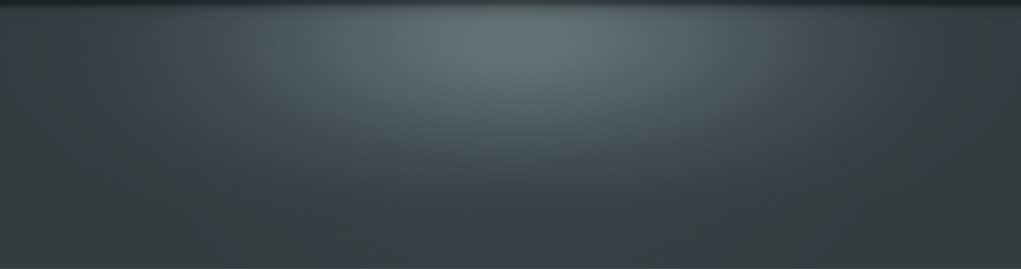
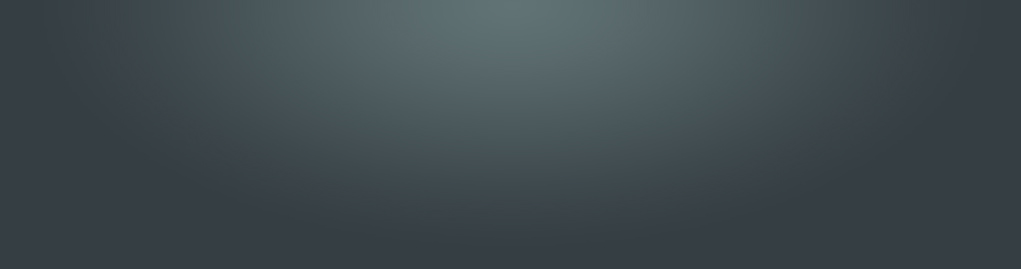
improved login screen

Changed region(s): [[0.0, 0.0, 1.0, 0.0297]]

diff --git a/css/themes/template.css b/css/themes/template.css
@@ -70,6 +70,20 @@ h3 {
 box-shadow: 3px 2px 13px #000000;
 	
 }
+.login_content {
+
+	padding:10px;
+       
+	margin-bottom:20px;
+	position:relative;
+        width:480px;
+	background:#ffffff;
+color: #aaaaaa;
+-moz-box-shadow: 3px 2px 13px #000000;
+-webkit-box-shadow: 3px 2px 13px #000000;
+box-shadow: 3px 2px 13px #000000;
+
+}
 #main_body {
 min-height:325px;
 
@@ -268,11 +282,14 @@ box-shadow: 3px 2px 13px #000000;
 }
 
 .footer2 {
-background:url('/images/backgrounds/footer_graphic.jpg') no-repeat center #353e43;
+background:url('/images/backgrounds/footer_graphic.jpg') no-repeat top center #353e43;
 
-	height:200px;
+	height:2000px;
 	color: #dddddd;
 	padding-top:0px;
+}
+.footer2 a {
+    color:#dddddd;
 }
 #partners_container {
 height:70px;
@@ -349,6 +366,24 @@ display: none;
 
 }
 .sidebox a {
+color:#ffffff;
+
+}
+
+.loginbox {
+
+    width:250px;
+    padding-top:5px;
+    padding-left:10px;
+    padding-right:10px;
+    margin-bottom:10px;
+   margin-top:10px;
+    color:#ffffff;
+    height: 120px;
+    background:url('/images/backgrounds/sidebox.jpg') repeat-x #4c585b;
+
+}
+.loginbox a {
 color:#ffffff;
 
 }

diff --git a/system/application/views/logintemplate.php b/system/application/views/logintemplate.php
@@ -11,7 +11,6 @@
 <?=$this->load->view('global/themes/header')?>
 
 
-
 <body>
 
 <!--[if lt IE 7]>
@@ -31,63 +30,78 @@
   </div>
 <![endif]-->
 
-         <div class="container_24">
-                    <?php $this->load->view('global/menutop'); ?>
+         <div class="container_24" align="center">
+                  	  	<div id="logo">
 
-            
+  		<?php if(SITE=="customer"){
+	?><a href="<?=base_url()?>" title="customer resource"><img src="<?=base_url()?>images/logocustomer.png"></img></a>
+<?php }
+else if(SITE=="channel"){
+	?><a href="<?=base_url()?>" title="channel resource"><img src="<?=base_url()?>images/logo.png"></img></a>
+<?php }
+
+?>
+
+
+
+
+
+                            </div>
+
+
 	</div>
 
-	<div class="menu_container">
-	    		<div class="container_24"><?=$this->load->view('global/themes/top_menu')?></div>
-	 </div>
+	
 
-<div class="main_content container_24">
+<div class="login_content container_24">
   	<!-- CONTENT -->
-  	
-       
-    
 
-         <div class="grid_19">
 
-	<?php
+
+
+
+         <div  align="center">
+             <?php
 	if(isset($title))
 	{
 		echo "<h1 class='componentheading'>$title</h1>";
 	}
 	?>
 
-	<?php $this->load->view('global/warning'); ?>
-	<?php $this->load->view($main); ?>
-
-
-            </div>
-
-         <div class="grid_5">
-
+	<?php $this->load->view('global/warning'); ?><br/>
+	
+Login with your username and password below:<br/>
            	<?php if(SITE=="customer"){
-                    $this->load->view('global/themes/custmenu');
+                    $this->load->view('global/themes/loginonly');
             }
             else if(SITE=="channel"){
-                    $this->load->view('global/themes/channelmenu');
+                    $this->load->view('global/themes/loginonly');
             }
 
 ?>
 
+
+<?php
+	if(isset($main))
+	{
+		$this->load->view($main);
+	}
+	?>
         </div>
 
         <div class="clear"></div>
 
 
-   
+
       <!-- //CONTENT -->
 </div>
-   <div class="footer2">
+   <div class="footer2" >
 	<div class="top_shadow"></div>
 	<div class="container_24">
 
 
 		<div class="grid_19">
-				<?php $this->load->view('global/themes/footer'); ?>
+				<?php $this->load->view('global/themes/loginfooter'); ?>
 		</div>
 
 		<div class="grid_5">
@@ -96,6 +110,7 @@
 
 	</div>
 </div>
+ 
 
 </body>
 </html>

diff --git a/system/application/views/global/themes/loginonly.php b/system/application/views/global/themes/loginonly.php
@@ -1,0 +1,42 @@
+<div class="loginbox">
+
+
+
+	     <?php
+
+$is_logged_in = $this->session->userdata('is_logged_in');
+if(!isset($is_logged_in) || $is_logged_in != true)
+		{?>
+	<form method="post" action="<?=base_url()?>user/login/validate_credentials"  target="_blank" >
+	<div>
+		 <div id="inputs">
+			   <input type="text" id="username" name="username" title="Username" /><br/>
+
+
+			   <input type="password" id="password" name="password" title="Password" />
+		</div>
+	</div>
+
+	<div class="loginbutton">
+
+		<input type="image" name="submit" src="<?=base_url()?>images/icons/loginbutton.png" border="0" />
+
+	</div>
+
+          </form>
+    <?php }else
+			{
+				echo 'Hello ';
+				echo $this->session->userdata('firstname');
+				echo ' ';
+				echo $this->session->userdata('lastname');
+				echo ' | ';?>
+
+
+				<a href='<?=base_url()?>user/login/logout' style="color:#ffffff">Logout</a>
+
+
+				<?php
+			}
+?>
+</div>

diff --git a/system/application/controllers/user/login.php b/system/application/controllers/user/login.php
@@ -19,13 +19,13 @@ function __construct()
 		if(SITE=="customer")
 			{
 			
-			$data['main'] = 'user/main_customer';
+			//$data['main'] = 'user/main_customer';
 			$title = "Welcome to the Lease-Desk.com Customer Portal";
 			}
 		else if(SITE=="channel")
 			{
 			
-			$data['main'] = 'user/main_channel';
+			//$data['main'] = 'user/main_channel';
 			$title = "Welcome to the Lease-Desk.com Channel Partner Portal";
 			}
 			else
@@ -38,7 +38,7 @@ function __construct()
 		$data['title'] = 'Login';
 		
 		$this->load->vars($data);
-		$this->load->view('leasedesktemplate');
+		$this->load->view('logintemplate');
 	
 	
 	
@@ -87,7 +87,7 @@ function __construct()
 			$data['title'] = 'Login Failed';
 			$data['main'] = 'user/index';
 			$this->load->vars($data);
-			$this->load->view('leasedesktemplate');
+			$this->load->view('logintemplate');
 			
 			
 		}

diff --git a/system/application/views/global/themes/top_menu.php b/system/application/views/global/themes/top_menu.php
@@ -1,9 +1,21 @@
 
 <div id="top_menu">
     		<ul>
-			<li><a href="<?=base_url()?>" >HOME</a></li>
+                 <?php $is_logged_in = $this->session->userdata('is_logged_in');
 
-			<?php $role = $this->session->userdata('role');
+                   if(!isset($is_logged_in) || $is_logged_in == true)
+                    {
+                 ?>
+		                  
+                    <li><a href="<?=base_url()?>" >HOME</a></li>
+                    <?php
+                    }
+                    ?>
+
+
+
+
+                    <?php $role = $this->session->userdata('role');
 				if(!isset($role)|| $role > 0)
 					{
 					?>

diff --git a/system/application/views/global/themes/loginfooter.php b/system/application/views/global/themes/loginfooter.php
@@ -1,0 +1,19 @@
+<!-- FOOTER -->
+<div class="container_24">
+<div align="center">
+
+        &copy; Copyright 2011 Lease-Desk Ltd. Website Developed by <a href="http://www.redstudio.co.uk">Redstudio Design Limited</a>
+        <br/>
+
+
+
+
+
+
+
+
+        <a href="http://www.lease-desk.com" target="_blank"><img alt="Lease Desk Ltd"  width="200px" src="<?=base_url()?>images/proctor/logo.png"/></a>
+</div>
+</div>
+<!-- //FOOTER -->
+
